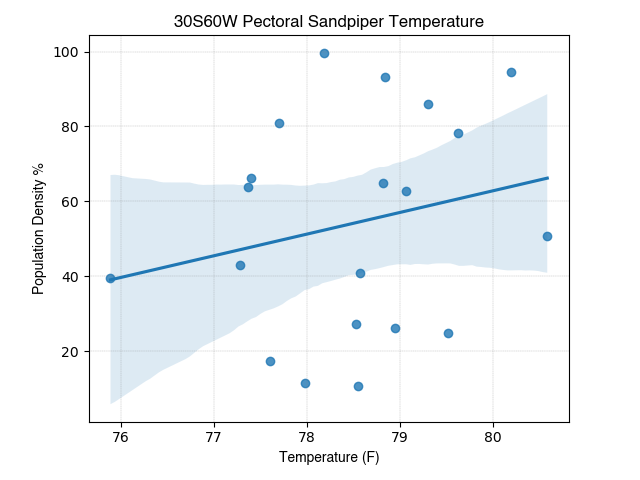
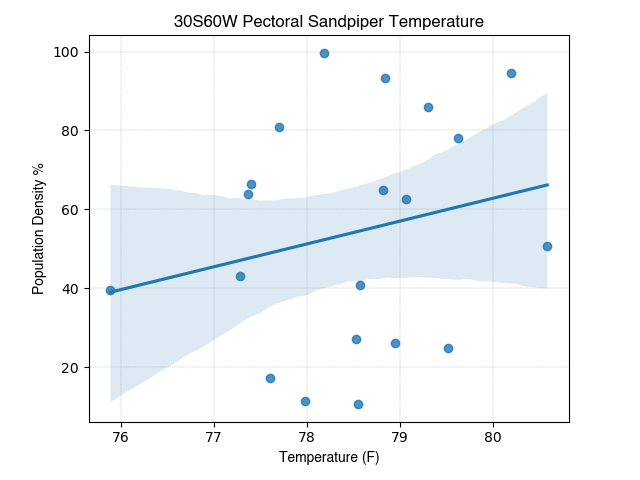
All Bird plots updated
Small three for one that I promised earlier. Enjoy!

diff --git a/sorting.py b/sorting.py
@@ -292,6 +292,13 @@ print(str(f) + " and " + str(p))
 
 scatterPlot(magStrength3060S, allBirdPercentages, "30S60W All Birds Magnetic Strength", "30S60WAbBird.png", "Magnetic Strength (nT)")
 doubleYAxisPlotMaker(2000,2020, magStrength3060S, allBirdPercentages, "5R Analysis of All Birds 30S60W from 2000-2020(M)", "Magnetic Strength (nT)", "Population Density %", "DOUBLEAXIS_AbBird30S60W_M.png", "tab:red", "tab:blue")
+
+scatterPlot(climate3060S, allBirdPercentages, "30S60W All Birds Temperature", "30S60WAbBird_T.png", "Temperature (F)")
+doubleYAxisPlotMaker(2000,2020, climate3060S, allBirdPercentages, "5R Analysis of All Birds 30S60W from 2000-2020(T)", "Temperature (F)", "Population Density %", "DOUBLEAXIS_AbBird30S60W_T.png", "tab:red", "tab:blue")
+
+scatterPlot(prcp3060S, allBirdPercentages, "30S60W All Birds Precipitation", "30S60WAbBird_P.png", "Precipitation (in)")
+doubleYAxisPlotMaker(2000,2020, prcp3060S, allBirdPercentages, "5R Analysis of All Birds 30S60W from 2000-2020(P)", "Precipitation (in)", "Population Density %", "DOUBLEAXIS_AbBird30S60W_P.png", "tab:red", "tab:blue")
+
 #(yearMin, yearMax, data1, data2, title, dataLabel1, dataLabel2, filename, color1, color2):
 #5R Analysis of American Golden-Plover 30S60W from 2000-2020
 
